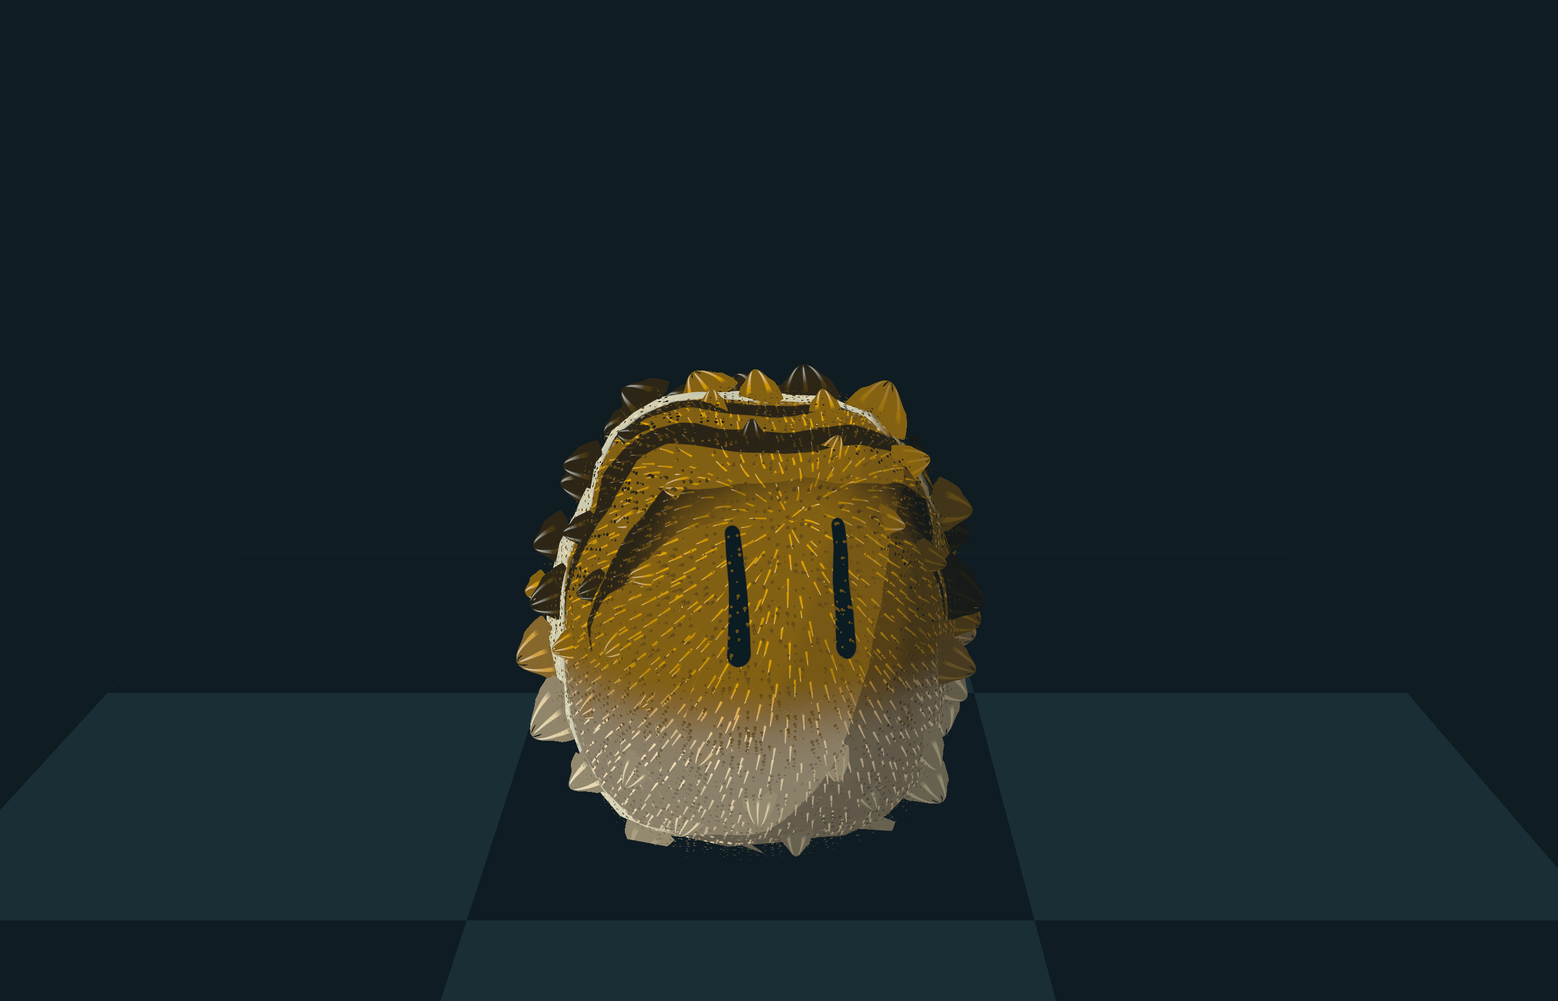
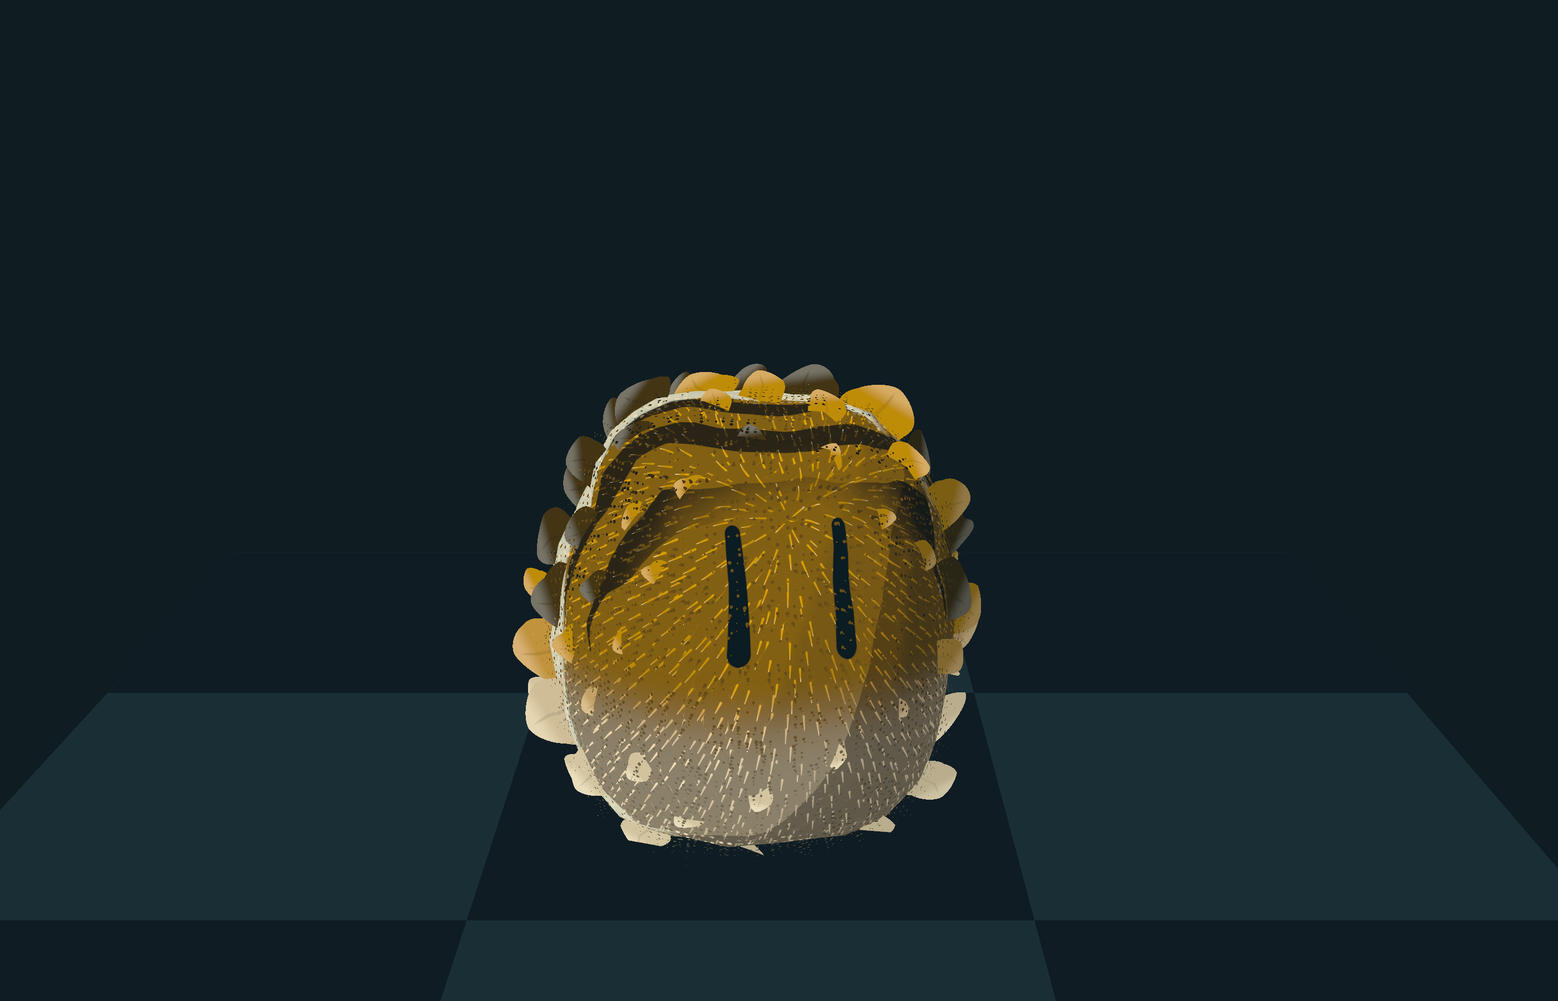
P1b Materialien Feinschliff: Fell-Silhouette als weiche, überlappende Locken; Gas mit langen, weichen Nebelbändern und Schlieren; Gas-Volumentaps entfernt (billiger)

Changed region(s): [[0.3107, 0.3422, 0.6525, 0.8711]]

diff --git a/packages/render/src/materials/FurFinMaterial.ts b/packages/render/src/materials/FurFinMaterial.ts
@@ -1,6 +1,6 @@
 import { BufferAttribute, BufferGeometry, DoubleSide, InstancedMesh } from 'three';
 import { MeshBasicNodeMaterial, type UniformNode } from 'three/webgpu';
-import { Discard, Fn, If, abs, cameraPosition, cos, cross, dot, float, fract, fwidth, instanceIndex, int, max, mix, modelWorldMatrixInverse, normalize, positionGeometry, pow, sin, smoothstep, sqrt, step, struct, time, uniform, varying, vec2, vec3, vec4 } from 'three/tsl';
+import { Discard, Fn, If, abs, cameraPosition, cos, cross, dot, float, fwidth, instanceIndex, int, max, mix, modelWorldMatrixInverse, normalize, positionGeometry, pow, sin, smoothstep, sqrt, step, struct, time, uniform, varying, vec2, vec3, vec4 } from 'three/tsl';
 import { elementOf, member, type FloatNode, type Vec3Node } from '../common/tsl';
 import { BLOB_STRIDE, BLOB_STYLE_STRIDE, BlobField, BlobStyleField, type BlobParamBlock } from '../blob/blobParamsUniforms';
 import { compileSdf, createBlobQualityUniforms, type BlobQualityUniforms, type CompiledSdf } from '../blob/compileSdf';
@@ -111,9 +111,12 @@ export function createFurFinMesh(block: BlobParamBlock, opts: FurFinOptions = {}
       const fwd = normalize(vec3(eye.x, 0, eye.z).add(vec3(0, 0, 1e-4)));
       const flowRaw = fwd.negate().mul(0.9).add(vec3(0, -0.65, 0));
       const flowT = normalize(flowRaw.sub(n.mul(dot(flowRaw, n))).add(vec3(1e-4, 0, 0)));
+      const faceward = smoothstep(0.2, 0.85, dot(normalize(root.sub(s0.xyz)), fwd));
       const facing = abs(dot(n, view));
       const sil = float(1).sub(smoothstep(0.22, 0.62, facing));
-      const keep = max(float(1).sub(silhouetteOnly), step(0.08, sil));
+      const h = instanceHash(fx.x, fi, 7);
+      // Density: fewer locks toward the face, all of them on the back and sides.
+      const keep = max(float(1).sub(silhouetteOnly), step(0.08, sil)).mul(step(faceward.mul(0.4), h));
       // Lock axis: lying along the flow on the body, standing out (combed) at the silhouette.
       const comb = fur.w;
       const axisIn = normalize(flowT.add(n.mul(0.22)));
@@ -122,17 +125,20 @@ export function createFurFinMesh(block: BlobParamBlock, opts: FurFinOptions = {}
       const axis = normalize(mix(axisIn, axisOut, sil));
       // Camera-facing width direction (the card turns about its own axis toward the viewer).
       const wv = normalize(cross(axis, view).add(vec3(0, 1e-4, 0)));
-      const h = instanceHash(fx.x, fi, 7);
       // Inner locks (facing the camera) are smaller; the contour tufts carry the silhouette.
-      const L = fur.x.mul(mix(float(1.5), float(2.2), h)).mul(r0).mul(mix(float(0.6), float(1.15), sil));
-      const W = L.mul(0.95);
+      // Longer, wavier locks on the back and sides (retriever), shorter toward the face.
+      const L = fur.x.mul(mix(float(1.8), float(2.8), h)).mul(r0).mul(mix(float(0.65), float(1.1), sil)).mul(float(1).sub(faceward.mul(0.45)));
+      const W = L.mul(0.85);
       // Sway (wind) and jiggle: the lock bends toward its width direction, more toward the tip.
       const u = positionGeometry.x;
       const v = positionGeometry.y;
       const swayA = sin(time.mul(2.3).add(fi.mul(1.31)).add(fx.x)).mul(fur.z).mul(0.25).add(anim.x.mul(sin(time.mul(14).add(fi))).mul(0.4));
       const bend = v.mul(v);
-      const curl = n.mul(bend.mul(L).mul(0.12)).add(wv.mul(bend.mul(L).mul(swayA)));
-      const p = root.add(wv.mul(u.mul(W))).add(axis.mul(v.mul(L))).add(curl).sub(n.mul(L.mul(0.12)));
+      // Wave along the lock (retriever), a gentle lift of the tip, wind/jiggle sway.
+      const wave = sin(v.mul(Math.PI * 1.6).add(h.mul(6.28)).add(time.mul(1.1))).mul(0.14).mul(v);
+      const curl = n.mul(bend.mul(L).mul(0.1)).add(wv.mul(bend.mul(L).mul(swayA).add(wave.mul(L))));
+      // Sunk into the body so neighbouring locks overlap into one scalloped fringe.
+      const p = root.add(wv.mul(u.mul(W))).add(axis.mul(v.mul(L))).add(curl).sub(axis.mul(L.mul(0.22))).sub(n.mul(L.mul(0.1)));
       pos.assign(mix(vec3(0, -1e4, 0), p, keep));
       litOut.assign(h);
       });
@@ -144,7 +150,6 @@ export function createFurFinMesh(block: BlobParamBlock, opts: FurFinOptions = {}
   const vN = varying(member<'vec3'>(vertex, 'n'), 'vFinN');
   const vRest = varying(member<'vec3'>(vertex, 'rest'), 'vFinRest');
   const vBase = varying(member<'float'>(vertex, 'base'), 'vFinBase');
-  const vHash = varying(member<'float'>(vertex, 'lit'), 'vFinHash');
   const vUv = varying(vec2(positionGeometry.x, positionGeometry.y), 'vFinUv');
   material.positionNode = member<'vec3'>(vertex, 'pos').mul(placeV.w).add(placeV.xyz);
 
@@ -158,13 +163,9 @@ export function createFurFinMesh(block: BlobParamBlock, opts: FurFinOptions = {}
     const base = int(vBase.add(0.5)).toVar();
     const u = vUv.x;
     const v = vUv.y;
-    // Lock outline: a rounded, leaf-like tuft (full body, soft taper) whose end splits into 2–3 rounded
-    // sub-locks — fluffy scallops at the contour, not needles.
-    const hw = float(0.5).mul(pow(max(float(1).sub(pow(v, float(1.8))), 0), float(0.55))).mul(smoothstep(0.0, 0.1, v).mul(0.3).add(0.7));
-    const forks = mix(float(2), float(3), step(0.5, vHash));
-    const lobe = abs(sin(u.div(max(hw, 1e-3)).add(1).mul(forks).mul(Math.PI / 2)));
-    const split = smoothstep(0.6, 0.95, v).mul(float(1).sub(lobe)).mul(0.9);
-    const inside = hw.mul(float(1).sub(split)).sub(abs(u));
+    // Lock outline: a flat, rounded tear/leaf — full body, round tip (a scallop), no points or forks.
+    const hw = float(0.5).mul(pow(max(sin(pow(v, float(0.85)).mul(Math.PI)), 0), float(0.6))).mul(smoothstep(0.0, 0.1, v).mul(0.25).add(0.75));
+    const inside = hw.sub(abs(u));
     Discard(inside.lessThan(0));
 
     const styleBase = base.div(BLOB_STRIDE).mul(BLOB_STYLE_STRIDE);
@@ -200,20 +201,15 @@ export function createFurFinMesh(block: BlobParamBlock, opts: FurFinOptions = {}
       coat.assign(mix(coat, pat.inkColor, pat.ink.mul(0.9)));
       coat.assign(mix(coat, pat.lightColor, pat.light.mul(0.8)));
     });
-    // The lock is the body's dark mass (one small value step lighter on the lit side), so the tufts read
-    // as a continuous, fluffy extension of the silhouette; the light lives in thin hair strokes along
-    // each sub-lock on the lit side (Earle's light strokes on a dark mass).
+    // Flat lock: the body's own fur colour at that spot (the coat pulled toward the mass by the same
+    // amount as the body reads on average), one value step for light/shade, slightly lighter tip, a soft
+    // central parting stroke — no dark root cone, no specular: scallops like Earle's dome rims.
     const mass = mix(coat.mul(0.32), uniforms.ink, 0.5);
-    const lit = smoothstep(0.52, 0.72, wrap);
-    const col = mix(mass, mix(mass, coat, 0.22), step(0.55, wrap)).toVar();
-    // Hair strokes: one per sub-lock, from the middle of the lock to the tip, thin and tapering.
-    const lane = fract(u.div(max(hw, 1e-3)).add(1).mul(forks).mul(0.5)).sub(0.5);
-    const strokeW = float(0.16).mul(float(1).sub(v.mul(0.6)));
-    const stroke = float(1).sub(aa(strokeW, abs(lane))).mul(smoothstep(0.3, 0.5, v)).mul(float(1).sub(smoothstep(0.9, 0.98, v)));
-    const tipLight = mix(coat, hl.xyz, smoothstep(0.55, 0.95, v).mul(0.45));
-    col.assign(mix(col, tipLight, stroke.mul(lit).mul(0.9)));
-    // Shaded side: the strokes stay as faint coat-coloured lines.
-    col.assign(mix(col, mix(mass, coat, 0.4), stroke.mul(float(1).sub(lit)).mul(0.5)));
+    const lit = step(0.55, wrap);
+    const col = mix(mix(mass, coat, 0.5), mix(mass, coat, 0.72), lit).toVar();
+    col.assign(mix(col, mix(coat, hl.xyz, 0.18), smoothstep(0.62, 0.9, v).mul(mix(float(0.35), float(0.8), lit))));
+    const parting = float(1).sub(aa(0.05, abs(u).div(max(hw, 1e-3)))).mul(smoothstep(0.25, 0.45, v)).mul(float(1).sub(smoothstep(0.8, 0.95, v)));
+    col.assign(mix(col, mix(mass, coat, 0.3), parting.mul(0.35)));
     return col;
   })();
   material.side = DoubleSide;

diff --git a/packages/render/src/blob/blobShading.ts b/packages/render/src/blob/blobShading.ts
@@ -1,4 +1,4 @@
-import { If, abs, atan, clamp, cross, dot, float, floor, fract, fwidth, hash, length, mat3, max, mix, mx_fractal_noise_float, mx_noise_float, normalize, pow, smoothstep, step, time, vec2, vec3, vec4, uniform } from 'three/tsl';
+import { If, abs, atan, clamp, cross, dot, float, floor, fract, fwidth, hash, length, mat3, max, mix, mx_fractal_noise_float, mx_noise_float, normalize, pow, sin, smoothstep, step, time, vec2, vec3, vec4, uniform } from 'three/tsl';
 import { Matrix3, Matrix4, Vector3 } from 'three';
 import type { UniformNode } from 'three/webgpu';
 import { elementOf, type FloatNode, type IntNode, type Vec3Node, type Vec4Node } from '../common/tsl';
@@ -161,7 +161,6 @@ export function shadeBlob(block: BlobParamBlock, u: BlobShadingUniforms, inp: Sh
   const lightBanded = patLightCol.mul(mix(float(0.62), float(1), smoothstep(0.42, 0.5, wrap)));
   col.assign(mix(col, lightBanded, patLight.mul(float(0.7).add(contrast.mul(0.3))).mul(wSolid)));
 
-  const gasIn = clamp(inp.gas ?? float(0), 0, 1).toVar();
   const gasBand = float(0).toVar();
   const gasErode = float(0).toVar();
   const wave = (inp.ripple ?? float(0)).toVar();
@@ -191,28 +190,29 @@ export function shadeBlob(block: BlobParamBlock, u: BlobShadingUniforms, inp: Sh
       ringsOf(1);
       col.assign(mix(col, hl.xyz, foamOf()));
     })
-    // 2 gas v2 — Earle fog (Ebene_19/20/25): teal body, pale teal, cream and white streaks drifting in
-    // horizontal layers; no dark band. The layer index also drives the alpha (thin = see-through).
+    // 2 gas v2 — Earle fog (Ebene_20, Ebene_25): a calm pale body with 2–3 long, thin, soft-edged white
+    // horizontal bands that slowly slide sideways and fade in and out along their length.
     .ElseIf(kind.lessThan(2.5), () => {
-      const band = floor(clamp(gasIn.sub(0.5).mul(1.9).add(0.5), 0, 0.9999).mul(4)); // 0..3
-      gasBand.assign(band);
-      // Breathing, noise-eroded edge: the silhouette frays, more at the crown where wisps peel off.
-      const tt = time.add(bub.w.mul(3.0));
-      // Two scales: large lobes pull the outline in irregularly (breathing), fine frays at the edge; the
-      // crown and the wind side (+x) peel more.
-      const big = mx_noise_float(pq.mul(1.6).add(vec3(tt.mul(0.25), tt.mul(0.18), tt.mul(-0.1))));
-      const fine = mx_noise_float(pq.mul(5.0).add(vec3(tt.mul(0.6), 0, tt.mul(0.3))));
+      const tt = time.mul(0.12).add(bub.w.mul(3.0));
+      const body = mix(mix(baseC.xyz, rim.xyz, 0.42), mix(baseC.xyz, rim.xyz, 0.58), step(0.5, wrap)).toVar();
+      const bands = float(0).toVar();
+      for (const k of [0, 1, 2]) {
+        const yk = float(-0.42 + k * 0.4).add(sin(tt.mul(0.9).add(k * 2.1)).mul(0.05));
+        const wave = mx_noise_float(vec3(pq.x.mul(1.1).add(tt.mul(0.7 + k * 0.25)).add(k * 5.3), float(k * 3.1), pq.z.mul(1.1))).mul(0.07);
+        const d = abs(pq.y.sub(yk).sub(wave));
+        const thick = float(0.06 + k * 0.012);
+        // Each band fades in and out along its length and slides sideways (the wind, +x).
+        const alongB = smoothstep(-0.35, 0.2, mx_noise_float(vec3(pq.x.mul(0.8).sub(tt.mul(1.2 + k * 0.4)).add(k * 7.7), float(k), pq.z.mul(0.8))));
+        const present = k === 2 ? step(0.45, fract(bub.w.mul(1.7))) : float(1); // 2 or 3 bands per body
+        bands.assign(max(bands, float(1).sub(smoothstep(thick.mul(0.35), thick, d)).mul(alongB).mul(present)));
+      }
+      gasBand.assign(bands.mul(3));
+      col.assign(mix(body, mix(hl.xyz, vec3(1, 1, 1), 0.55), bands.mul(0.92)));
+      // Breathing, noise-eroded edge: the silhouette frays, more at the crown and on the wind side.
+      const te = time.add(bub.w.mul(3.0));
+      const big = mx_noise_float(pq.mul(1.6).add(vec3(te.mul(0.25), te.mul(0.18), te.mul(-0.1))));
+      const fine = mx_noise_float(pq.mul(5.0).add(vec3(te.mul(0.6), 0, te.mul(0.3))));
       gasErode.assign(big.mul(0.55).add(fine.mul(0.2)).add(smoothstep(0.25, 1.0, pq.y).mul(0.25)).add(smoothstep(0.2, 1.0, pq.x).mul(0.12)));
-      // A mostly even pale body with a few thin white streaks (3 close values, low contrast): a small fog
-      // creature, not a marbled ball.
-      const c0 = mix(baseC.xyz, rim.xyz, 0.4);
-      const c1 = mix(baseC.xyz, rim.xyz, 0.55);
-      const c2 = mix(rim.xyz, vec3(1, 1, 1), 0.2);
-      const c3 = mix(hl.xyz, vec3(1, 1, 1), 0.6);
-      const gasCol = mix(mix(c0, c1, step(0.5, band)), mix(c2, c3, step(2.5, band)), step(1.5, band)).toVar();
-      // The shaded side keeps one value step toward the body colour (bands, no gradient).
-      gasCol.assign(mix(gasCol, mix(baseC.xyz, gasCol, 0.7), step(wrap, 0.38)));
-      col.assign(gasCol);
     })
     // 3 fire v2: four hard bands from the hot core to crimson tips, streaked vertically by the same
     // stretched noise as the tongues; a small cream heart — no glow, no gradient.
@@ -328,7 +328,7 @@ export function shadeBlob(block: BlobParamBlock, u: BlobShadingUniforms, inp: Sh
   // Alpha: gas fades at the edges (Fresnel) and uses the block's alpha; everything else is opaque.
   // Gas: thin layers see-through, dense streaks nearly opaque, the silhouette dissolves (alpha in (a),
   // alpha-to-coverage dither in (b)).
-  const gasAlpha = hl.w.mul(clamp(float(0.62).add(gasBand.mul(0.13)), 0, 1)).mul(float(1).sub(smoothstep(0.08, 0.5, fres.mul(1.2).add(gasErode))));
+  const gasAlpha = hl.w.mul(clamp(float(0.72).add(gasBand.mul(0.09)), 0, 1)).mul(float(1).sub(smoothstep(0.08, 0.5, fres.mul(1.2).add(gasErode))));
   const alpha = mix(float(1), gasAlpha, wGas);
   return vec4(col, alpha);
 }

diff --git a/packages/render/src/blob/JiggleBlobMaterial.ts b/packages/render/src/blob/JiggleBlobMaterial.ts
@@ -1,6 +1,6 @@
 import { BufferAttribute, BufferGeometry, IcosahedronGeometry, InstancedMesh, Vector3, type DataTexture } from 'three';
 import { MeshBasicNodeMaterial } from 'three/webgpu';
-import { Fn, If, Loop, cameraPosition, clamp, cross, dot, float, fwidth, instanceIndex, int, max, modelWorldMatrixInverse, mx_noise_float, normalize, refract, smoothstep, step, texture, varying, vec2, vec3, vec4, positionGeometry } from 'three/tsl';
+import { Fn, Loop, cameraPosition, clamp, cross, dot, float, fwidth, instanceIndex, int, max, modelWorldMatrixInverse, mx_noise_float, normalize, smoothstep, step, texture, varying, vec2, vec3, vec4, positionGeometry } from 'three/tsl';
 import { elementOf, type IntNode, type Vec3Node } from '../common/tsl';
 import { BLOB_STRIDE, BlobField, type BlobParamBlock } from './blobParamsUniforms';
 import { compileSdf, createBlobQualityUniforms, type BlobQualityUniforms, type CompiledSdf } from './compileSdf';
@@ -73,7 +73,6 @@ export function createJiggleBlobMaterial(block: BlobParamBlock, opts: JiggleBlob
     const n = normalize(normalize(vNormal).add(sdf.rippleSlope(q, base))).toVar();
     const rd = normalize(pos.sub(vCam)).toVar();
     const inner = elementOf(block.node, base.add(BlobField.INNER));
-    const misc = elementOf(block.node, base.add(BlobField.MISC)).toVar();
     const s0 = elementOf(block.node, base).toVar();
 
     // View-dependent inner shapes instead of the organ march: two ellipses painted on the visible disc
@@ -89,14 +88,8 @@ export function createJiggleBlobMaterial(block: BlobParamBlock, opts: JiggleBlob
     const facing = smoothstep(0.05, 0.25, dot(pn, fwd));
     const organ = clamp(max(lower, upperRight).mul(facing), 0, 1);
 
-    // Gas v2 without an inner march: two parallax taps of the swirl density along the refracted ray
-    // (only for gas bodies: the branch is coherent per instance).
-    const gas = float(0).toVar();
-    If(kindWeight(misc.w, 2).greaterThan(0.5), () => {
-      const rr = normalize(refract(rd, n, 0.8));
-      const r0 = max(s0.w, 0.2);
-      gas.assign(clamp(sdf.gasDensity(q.add(rr.mul(r0.mul(0.25))), base).add(sdf.gasDensity(q.add(rr.mul(r0.mul(0.85))), base)).mul(0.5), 0, 1));
-    });
+    // Gas v2 (fog bands) is shaded on the surface in shadeBlob; no volume taps needed.
+    const gas = float(0);
 
     // Eye from the SDF glyph: sample the eye frame, sharpen with fwidth (crisp at any size).
     const f = eyeFrame(block, base, pos);

diff --git a/packages/render/src/blob/BlobParticles.ts b/packages/render/src/blob/BlobParticles.ts
@@ -91,12 +91,13 @@ export function createBlobParticleMesh(block: BlobParamBlock, opts: BlobParticle
       const a = h1.mul(Math.PI * 2);
       const dirS = normalize(vec3(cos(a), float(0.2).add(h2.mul(0.8)), sin(a)));
       const start = s0.xyz.add(dirS.mul(r0.mul(0.9)));
-      const drift = vec3(u.mul(0.55).add(sin(ageS.mul(1.9).add(h3.mul(6))).mul(0.06)), u.mul(0.4), cos(ageS.mul(1.6).add(h2.mul(6))).mul(0.06));
-      centre.assign(start.add(dirS.mul(u.mul(0.35).mul(r0))).add(drift.mul(r0)));
-      const swell = floor(sin(u.mul(Math.PI)).mul(2.999)); // 0, 1, 2 — grows, then thins out
-      size.assign(float(0.035).add(swell.mul(0.03)).mul(r0).mul(step(0.05, u)).mul(step(u, 0.95)));
-      aspect.assign(vec2(2.4, 0.6));
-      color.assign(mix(rim.xyz, baseC.xyz, step(0.65, u)));
+      const drift = vec3(u.mul(0.9).add(sin(ageS.mul(1.3).add(h3.mul(6))).mul(0.05)), u.mul(0.22), cos(ageS.mul(1.1).add(h2.mul(6))).mul(0.05));
+      centre.assign(start.add(dirS.mul(u.mul(0.25).mul(r0))).add(drift.mul(r0)));
+      // Long thin fog streaks (Earle's fog wisps), stretching as they drift, soft dithered ends.
+      const swell = sin(u.mul(Math.PI));
+      size.assign(float(0.05).add(swell.mul(0.07)).mul(r0).mul(step(0.04, u)).mul(step(u, 0.96)));
+      aspect.assign(vec2(float(3.2).add(u.mul(2.5)), 0.28));
+      color.assign(mix(mix(hl.xyz, vec3(1, 1, 1), 0.5), mix(rim.xyz, vec3(1, 1, 1), 0.3), step(0.6, u)));
     })
       .ElseIf(wFire.greaterThan(0.5), () => {
         // Embers: fast rise with a zigzag, cream → yellow → red by age, tiny.
@@ -169,7 +170,7 @@ export function createBlobParticleMesh(block: BlobParamBlock, opts: BlobParticle
   material.positionNode = member<'vec3'>(particle, 'pos').mul(placeV.w).add(placeV.xyz);
   material.colorNode = Fn(() => mix(mix(vColor.mul(0.72), vColor, step(0.5, vLit)), vHl, step(0.5, vHi)))();
   // Gas wisps dissolve toward their edge (alpha-to-coverage dither, still one opaque draw).
-  material.opacityNode = mix(float(1), float(1).sub(smoothstep(0.25, 0.95, length(vRad))), step(0.5, vSoft));
+  material.opacityNode = mix(float(1), float(1).sub(smoothstep(0.1, 0.95, length(vRad.mul(vec2(1, 0.6))))), step(0.5, vSoft));
   material.alphaToCoverage = true;
   material.transparent = false;
   material.depthWrite = true;

diff --git a/packages/render/src/blob/RaymarchBlobMaterial.ts b/packages/render/src/blob/RaymarchBlobMaterial.ts
@@ -1,6 +1,6 @@
 import { BoxGeometry, InstancedMesh, Vector3 } from 'three';
 import { MeshBasicNodeMaterial } from 'three/webgpu';
-import { Break, Discard, Fn, If, Loop, abs, cameraFar, cameraNear, cameraPosition, clamp, dot, float, floor, hash, instanceIndex, int, length, max, min, modelViewMatrix, modelWorldMatrixInverse, normalize, positionGeometry, pow, refract, sign, smoothstep, step, struct, varying, vec3, vec4, viewZToPerspectiveDepth } from 'three/tsl';
+import { Break, Discard, Fn, If, Loop, abs, cameraFar, cameraNear, cameraPosition, dot, float, floor, hash, instanceIndex, int, length, max, min, modelViewMatrix, modelWorldMatrixInverse, normalize, positionGeometry, pow, refract, sign, smoothstep, step, struct, varying, vec3, vec4, viewZToPerspectiveDepth } from 'three/tsl';
 import { elementOf, member } from '../common/tsl';
 import { BLOB_STRIDE, BlobField, type BlobParamBlock } from './blobParamsUniforms';
 import { compileSdf, createBlobQualityUniforms, type BlobQualityUniforms, type CompiledSdf } from './compileSdf';
@@ -119,7 +119,6 @@ export function createRaymarchBlobMaterial(block: BlobParamBlock, opts: Raymarch
     const n = sdf.normalShade(pos, base).toVar();
     const q = sdf.unsquash(pos, base).toVar();
     const kind = misc.w;
-    const wGas = kindWeight(kind, 2);
     const wFur = kindWeight(kind, 4);
 
     // Fur: fuzzy silhouette — the outermost Fresnel band is punched into strand-tip dots.
@@ -160,14 +159,8 @@ export function createRaymarchBlobMaterial(block: BlobParamBlock, opts: Raymarch
         const perp = length(toC.sub(rr.mul(tc)));
         const present = step(h3, rim.w.mul(0.07)).mul(step(0.05, tc)).mul(step(tc, 2.2)).mul(inBody);
         bubble.assign(max(bubble, present.mul(float(1).sub(smoothstep(rb.mul(0.7), rb, perp)))));
-        If(wGas.greaterThan(0.5), () => {
-          gasAcc.addAssign(sdf.gasDensity(sdf.unsquash(qq, base), base).mul(inBody));
-        });
+
       });
-      gasAcc.assign(clamp(gasAcc.div(innerSteps).mul(1.9), 0, 1));
-    }).Else(() => {
-      // LOD: one surface tap keeps far gas bodies swirling.
-      gasAcc.assign(sdf.gasDensity(q, base));
     });
     const organ = float(1).sub(smoothstep(-0.015, 0.015, organMin));
 

diff --git a/packages/render/src/blob/README.md b/packages/render/src/blob/README.md
@@ -32,7 +32,7 @@ shader branches coherently on them, so a blob pays only for its own look.
 |---|---|---|---|
 | jelly | banded wrap light, organs, bubbles, arc highlight, damped ripple rings | – | same |
 | liquid | flatter light, wet highlight, **meniscus band** at the floor, **posterised ripple rings** + foam dots | drips (particles) | same |
-| gas | **a small fog creature** (Ebene_19/20/25): a mostly even pale body with a few thin white horizontal streaks drifting slowly; the **outline itself is eroded** by two-scale noise that breathes, peels more at the crown and the wind side, thin areas see-through — alpha in (a), **alpha-to-coverage dither** in (b) (MSAA, one opaque draw) | wisps peel off the upper surface and drift with the wind (particles, dithered edges) | same |
+| gas | **a small fog creature** (Ebene_19/20/25): a calm pale body with 2–3 long, thin, soft-edged white horizontal bands sliding slowly sideways; the **outline itself is eroded** by two-scale noise that breathes, peels more at the crown and the wind side, thin areas see-through — alpha in (a), **alpha-to-coverage dither** in (b) (MSAA, one opaque draw) | long thin white fog streaks peel off the upper surface and drift with the wind (particles, dithered ends) | same |
 | fire | **flame crown** (5 swaying tongues + ridged noise in the SDF), 4 hard bands core→crimson tips, cream heart, no glow | embers (particles) | same |
 | fur | single pass: a dark mass with **hair strokes combed along a flow field** (from the head/eye direction backwards and down the sides), clumped into locks, lit tips on the light side, lighter belly/chest; the coat/pattern colour lives in the strokes. **Fur fins** give the tufted silhouette | **fins** (128 camera-facing lock cards: contour tufts + inner locks) + **6 shells** | fins at the silhouette only + single pass |
 | feather | single pass: overlapping scallops on the pole-safe row lattice, ink arcs, rachis, dotted lit crests | **feather cards** | single pass only |
@@ -137,8 +137,9 @@ scene.add(body.mesh, fur.mesh, feathers.mesh, particles.mesh);
   lock cards rooted on the body (Fibonacci roots traced onto the SDF). Each lock points along the combed
   flow and turns its face to the camera about that axis: at the contour the locks stand out as rounded,
   forked tufts (a fluffy, scalloped silhouette, the designer's retriever/mouse creatures), facing the
-  camera they lie flat as locks. Colour = the body's dark mass with thin light hair strokes per sub-lock
-  on the lit side; the face around the eye stays free. **Mobil**: `fins.silhouetteOnly.value = 1`
+  camera they lie flat as locks. Locks are flat, rounded tear/leaf scallops in the body's own fur colour
+  (one light/shade step, slightly lighter tip, no dark cone, no specular), longer and wavier on the
+  back and sides, sparser toward the face, overlapping into one scalloped fringe. **Mobil**: `fins.silhouetteOnly.value = 1`
   (contour tufts only) and no shells.
 * **Fur shells**: `shells` (8–12) copies of the body icosphere traced onto the same SDF, pushed out,
   combed down (`comb`), swayed by wind and the jiggle; the fragment alpha-tests a hashed strand lattice
